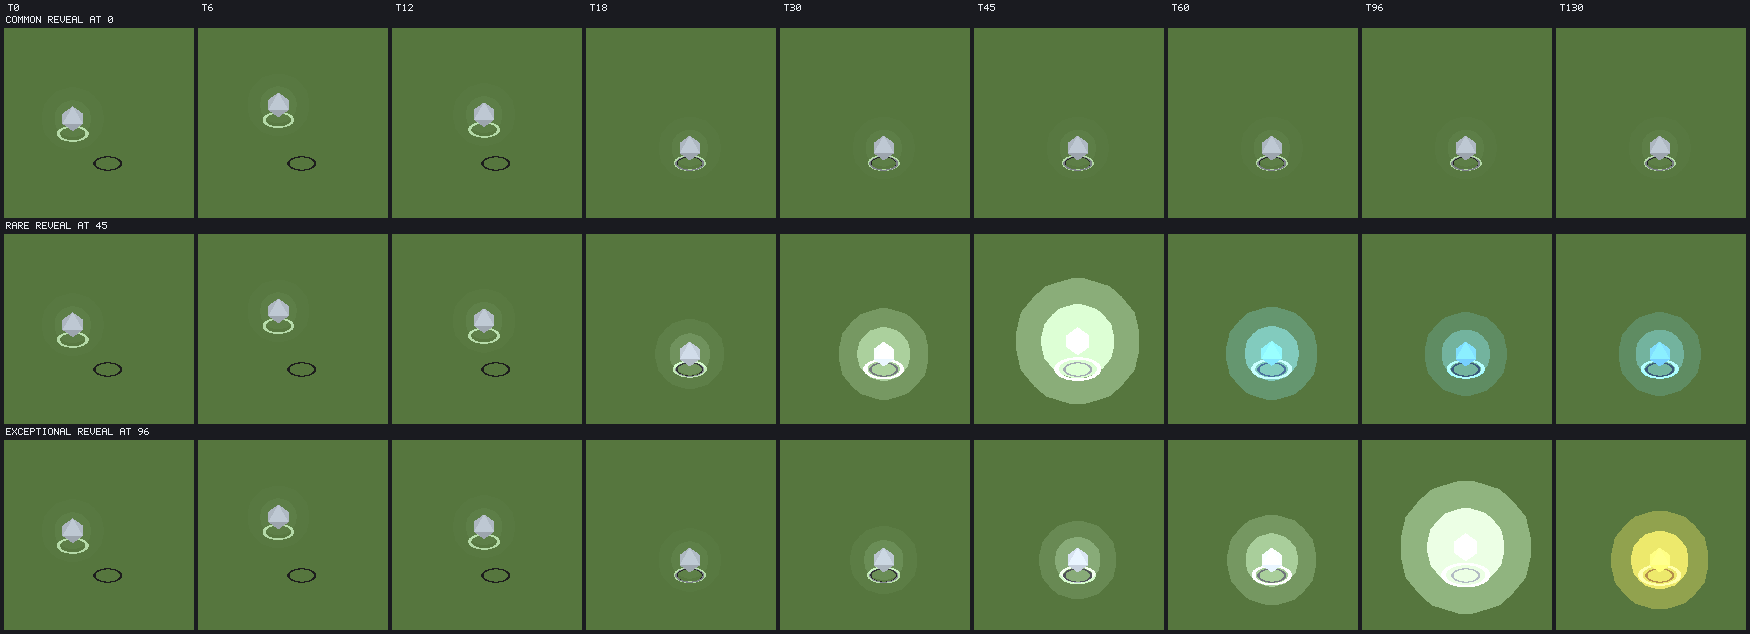
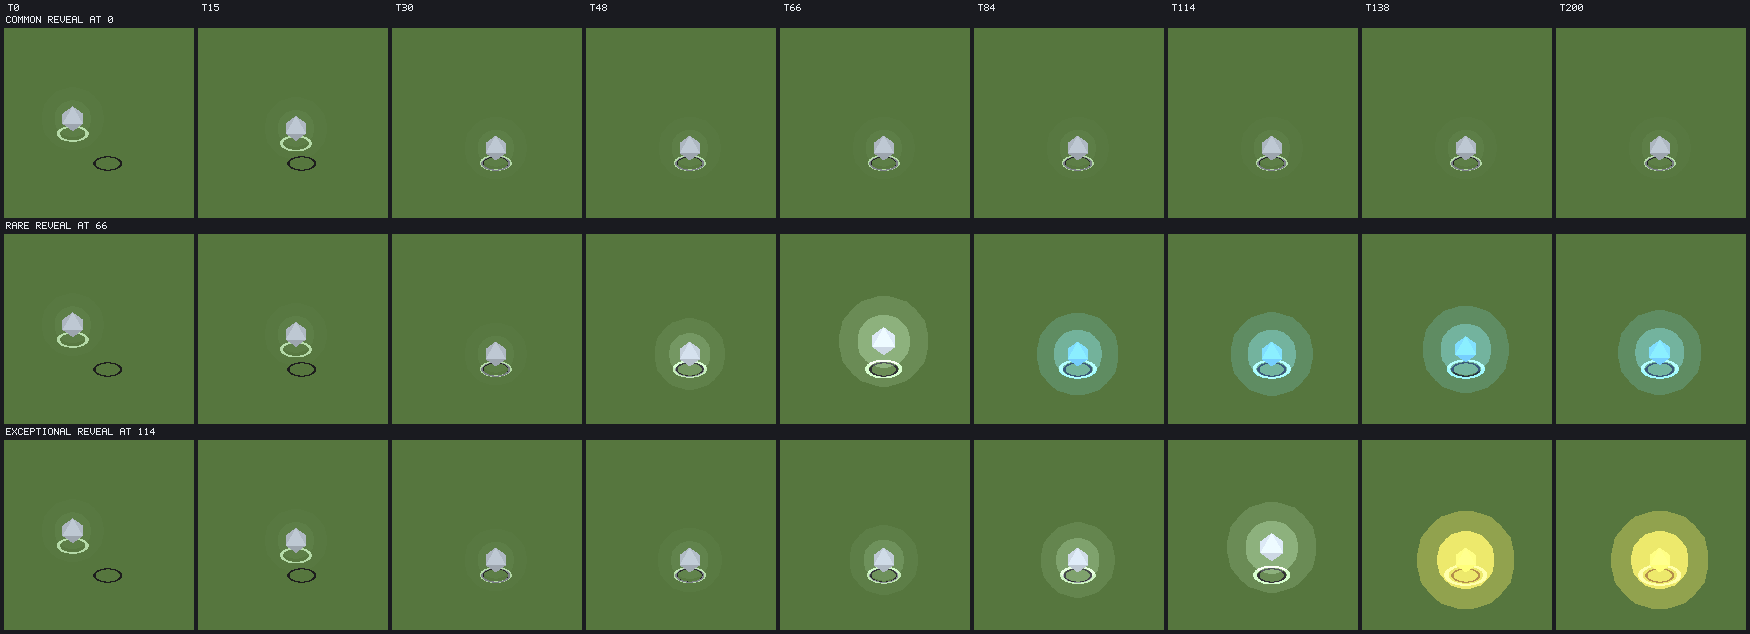
Let the drop land before anything happens to it, and stop the aura sagging
Two reports, both confirmed off the table rather than by eye.

The anticipation began 9 ticks after landing for a rare and 12 for an
exceptional -- a sixth of a second, so the aura was already swelling while
the item was still in the air. It reads as the object arriving mid-effect
rather than as an object arriving and then something happening to it. Both
tiers now hold still for 30 ticks, which is comfortably past the 18-tick
throw, and the reveal ticks move out by the same amount so the build keeps
the length it had rather than being compressed into what was left.

And the aura climbed to 0.85 through the anticipation and then halved to a
rare's resting 0.45 -- deflating at the exact moment it was supposed to be
paying off. `peakFlare` is gone from the table entirely and the shared
hidden peak drops to 0.4, at or below every revealing tier's rest, so the
curve is now monotone: quiet, climb, climb, hold. There is no flash and it
is not missed -- the reveal already has the colour arriving, the pulse's
first beat and the name becoming available, and the flash was the only one
of the four that ended lower than it started.

Both rules have tests over the whole curve rather than at sampled points,
plus the table invariant the second one depends on.

Claude-Session: https://claude.ai/code/session_01N1GVEq1b4uSdot6FbhKGCD

diff --git a/src/server/data/loot.ts b/src/server/data/loot.ts
@@ -32,8 +32,16 @@ export interface RarityRow {
    */
   readonly revealTicks: number;
   /**
-   * Ticks from landing to the anticipation cue. Never past {@link revealTicks},
-   * and equal to it only when there is no anticipation window at all.
+   * Ticks of **quiet** between the drop landing and anything about it starting
+   * to change. Never past {@link revealTicks}, and equal to it only when there
+   * is no anticipation window at all.
+   *
+   * Half a second, and the point is the stillness. It used to be a sixth of
+   * one, so the aura began swelling while the item was still in the air --
+   * which reads as the object arriving mid-effect rather than as an object
+   * arriving and *then* something happening to it. The beat lands after the
+   * throw has finished (`TOSS_TICKS` is 18) with room to spare, so the sequence
+   * a player sees is: thrown, settles, pause, and only then does it begin.
    */
   readonly anticipationTicks: number;
   /**
@@ -61,26 +69,18 @@ export interface RarityRow {
   /**
    * How bright the drop's flare sits at rest, 0..1.
    *
-   * The floor a tier never goes below once it has revealed, and the contrast
+   * Where a revealed drop's aura ends up and stays -- and, since there is no
+   * overshoot anywhere in the curve, the brightest it ever gets. The contrast
    * §3 of `docs/reward-philosophy.md` is about: a common drop is a dim object
    * in the grass forever, and nothing about it competes with the one that is
    * not.
+   *
+   * It has to sit at or above `HIDDEN_PEAK_FLARE` for every tier that has a
+   * run-up, or the aura would climb through the anticipation and then sag at
+   * the reveal -- an anticlimax exactly where the payoff is meant to be.
+   * `loot-drop.test.ts` asserts it.
    */
   readonly restFlare: number;
-  /**
-   * How bright it flashes **at the reveal**, 0..1, before settling back to
-   * {@link restFlare}.
-   *
-   * Not the top of the run-up -- that is one shared number in `loot-drop.ts`,
-   * because a tier-scaled run-up answers the question the reveal exists to ask.
-   * This is the flash at the instant the identity lands, by which point there
-   * is nothing left to withhold, so it may be as tier-scaled as it likes.
-   *
-   * Equal to {@link restFlare} for a tier with nothing to announce, which is
-   * what keeps common loot a flat dim object rather than one with a small
-   * ceremony on landing.
-   */
-  readonly peakFlare: number;
   /**
    * Whether the drop has a pulse (spec 156).
    *
@@ -95,12 +95,19 @@ export interface RarityRow {
 }
 
 /**
- * At 60Hz: 0.75s for a rare, 1.6s for an exceptional.
+ * At 60Hz: half a second of quiet, then 0.6s of build for a rare and 1.4s for
+ * an exceptional.
+ *
+ * The quiet is the same for both because it is not a tier signal -- it is the
+ * drop landing and being an object for a moment. What differs is the build
+ * after it, and only in *length*: both climb between the same two brightnesses,
+ * so a longer one is a slower one rather than a brighter one, which is a rate
+ * read over time instead of a kind read at a glance.
  *
  * Long enough to be a beat rather than a stutter, short enough that walking two
- * steps to the thing already covers most of it -- which is the point. The
- * reveal is meant to resolve at about the moment a player who reacted to the
- * cue arrives, not to make them stand and wait for it.
+ * steps to the thing already covers most of it. The reveal is meant to resolve
+ * at about the moment a player who reacted to it arrives, not to make them
+ * stand and wait.
  */
 const RARITY_ROWS: readonly RarityRow[] = [
   {
@@ -110,35 +117,32 @@ const RARITY_ROWS: readonly RarityRow[] = [
     anticipationTicks: 0,
     cues: { spawn: 'loot.spawn', anticipation: '', reveal: '' },
     restFlare: 0.12,
-    peakFlare: 0.12,
     heartbeat: false,
   },
   {
     id: 'rare',
     name: 'Rare',
-    revealTicks: 45,
-    anticipationTicks: 9,
+    revealTicks: 66,
+    anticipationTicks: 30,
     cues: {
       spawn: 'loot.spawn',
       anticipation: 'loot.anticipation',
       reveal: 'loot.reveal.rare',
     },
     restFlare: 0.45,
-    peakFlare: 0.9,
     heartbeat: true,
   },
   {
     id: 'exceptional',
     name: 'Exceptional',
-    revealTicks: 96,
-    anticipationTicks: 12,
+    revealTicks: 114,
+    anticipationTicks: 30,
     cues: {
       spawn: 'loot.spawn',
       anticipation: 'loot.anticipation',
       reveal: 'loot.reveal.exceptional',
     },
     restFlare: 0.7,
-    peakFlare: 1,
     heartbeat: true,
   },
 ];

diff --git a/src/render/iso3d/world/loot-drop.test.ts b/src/render/iso3d/world/loot-drop.test.ts
@@ -20,6 +20,7 @@ import {
   pickupLead,
   HEARTBEAT_TICKS,
   pickupOrderFor,
+  HIDDEN_PEAK_FLARE,
   REVEAL_SETTLE_TICKS,
   TIER_BLEND_TICKS,
   tierMixAt,
@@ -124,29 +125,60 @@ describe('the flare', () => {
     for (let tick = 0; tick < 300; tick++) expect(flareAt(drop, tick)).toBeCloseTo(row.restFlare, 9);
   });
 
-  it('rises through the anticipation and settles after the reveal', () => {
+  it('holds still for half a second before anything starts to change', () => {
+    for (const rarity of ['rare', 'exceptional'] as const) {
+      const drop = view(rarity);
+      const hidden = flareAt(drop, drop.spawnTick);
+      // Half a second, and the throw is over well inside it -- so the object
+      // lands, settles, and only then does something begin.
+      expect(drop.anticipationTick - drop.spawnTick).toBe(30);
+      expect(drop.anticipationTick - drop.spawnTick).toBeGreaterThan(TOSS_TICKS);
+      for (let tick = drop.spawnTick; tick <= drop.anticipationTick; tick++) {
+        expect(flareAt(drop, tick), `${rarity} @ ${tick}`).toBeCloseTo(hidden, 9);
+      }
+      // ...and then it does.
+      expect(flareAt(drop, drop.anticipationTick + 6)).toBeGreaterThan(hidden);
+    }
+  });
+
+  it('rises through the anticipation and holds after the reveal', () => {
     const drop = view('exceptional');
     const row = rarityRow('exceptional');
     const hidden = flareAt(view('common'), 0);
     // Starts where ordinary loot sits...
     expect(flareAt(drop, drop.spawnTick)).toBeCloseTo(hidden, 9);
-    // ...builds...
-    expect(flareAt(drop, drop.revealTick - 1)).toBeGreaterThan(hidden);
-    // ...flashes at the reveal, which is the first moment a tier may show...
-    expect(flareAt(drop, drop.revealTick)).toBeCloseTo(row.peakFlare, 9);
-    // ...and comes all the way back down to its own rest, rather than leaving a
-    // lit object.
+    // ...builds to the shared peak, which says nothing about the tier...
+    expect(flareAt(drop, drop.revealTick)).toBeCloseTo(HIDDEN_PEAK_FLARE, 9);
+    // ...and climbs the rest of the way to its own, where it stays.
     expect(flareAt(drop, drop.revealTick + REVEAL_SETTLE_TICKS)).toBeCloseTo(row.restFlare, 9);
     expect(flareAt(drop, drop.revealTick + 10_000)).toBeCloseTo(row.restFlare, 9);
   });
 
-  it('rises monotonically through the run-up', () => {
-    const drop = view('rare');
-    let previous = -1;
-    for (let tick = drop.anticipationTick; tick <= drop.revealTick; tick++) {
-      const flare = flareAt(drop, tick);
-      expect(flare).toBeGreaterThanOrEqual(previous);
-      previous = flare;
+  /**
+   * The rule the whole curve is built on: **it never decreases.**
+   *
+   * It used to climb to 0.85 through the anticipation and then halve to a
+   * rare's resting 0.45 -- the aura deflating at the exact moment the reveal
+   * was meant to be paying off.
+   */
+  it('never gets dimmer than it has been, at any tier, ever', () => {
+    for (const rarity of RARITY_IDS) {
+      const drop = view(rarity);
+      let previous = -Infinity;
+      for (let tick = drop.spawnTick; tick <= drop.revealTick + REVEAL_SETTLE_TICKS * 4; tick++) {
+        const flare = flareAt(drop, tick);
+        expect(flare, `${rarity} @ ${tick}`).toBeGreaterThanOrEqual(previous - 1e-9);
+        previous = flare;
+      }
+    }
+  });
+
+  /** The table has to hold up its end of that, or the curve cannot. */
+  it('authors no tier that would sag at its own reveal', () => {
+    for (const rarity of RARITY_IDS) {
+      const row = rarityRow(rarity);
+      if (row.revealTicks === 0) continue;
+      expect(row.restFlare, rarity).toBeGreaterThanOrEqual(HIDDEN_PEAK_FLARE);
     }
   });
 });

diff --git a/src/render/iso3d/world/loot-drop.ts b/src/render/iso3d/world/loot-drop.ts
@@ -88,7 +88,17 @@ export const TIER_BLEND_TICKS = 12;
  * and every kind waits for the reveal.**
  */
 const HIDDEN_REST_FLARE = rarityRow('common').restFlare;
-const HIDDEN_PEAK_FLARE = 0.85;
+/**
+ * ...and it sits at or below every revealing tier's `restFlare` on purpose, so
+ * the reveal is a step *up* from where the run-up left the aura.
+ *
+ * It used to be 0.85 against a rare's resting 0.45, so the aura climbed to
+ * nearly full through the anticipation and then halved at the moment it was
+ * supposed to be paying off. There is now no overshoot anywhere in the curve --
+ * see {@link flareAt} -- so the aura only ever gets brighter, and the reveal is
+ * where it stops rather than where it deflates.
+ */
+export const HIDDEN_PEAK_FLARE = 0.4;
 
 export interface DropPresentation {
   readonly phase: RevealPhaseValue;
@@ -147,11 +157,18 @@ function smooth(t: number): number {
 /**
  * The flare curve, as a pure function of one drop and one tick.
  *
- * Three segments and one rule holding them together: the curve never leaves
- * `[restFlare, peakFlare]`. For a common drop those two are equal, so its curve
- * is a flat line at the dimmest value in the table -- which is what makes
- * "ordinary loot is quieter than everything else at every instant" true by
- * construction rather than by two curves happening not to cross.
+ * Three segments and one rule holding them together: **it never decreases.**
+ * Half a second flat at what ordinary loot rests at, a climb to one shared
+ * hidden peak that says nothing about the tier, and at the reveal a second
+ * climb to the tier's own rest, where it stays. A drop with no run-up -- every
+ * common one -- is a flat line at the dimmest value in the table, which is what
+ * makes "ordinary loot is quieter than everything else at every instant" true
+ * by construction rather than by two curves happening not to cross.
+ *
+ * There is deliberately no flash. The reveal already has the tier's colour
+ * arriving, the first beat of the pulse and the name becoming available; a
+ * spike that then fell away was a fourth thing, and the only one of the four
+ * that ended lower than it started.
  */
 export function flareAt(drop: DropView, tick: number): number {
   const row = rarityRow(drop.rarity);
@@ -165,11 +182,11 @@ export function flareAt(drop: DropView, tick: number): number {
     return HIDDEN_REST_FLARE + (HIDDEN_PEAK_FLARE - HIDDEN_REST_FLARE) * smooth(through);
   }
 
-  // --- revealed: the tier's own flash, settling to the tier's own rest ---
+  // --- revealed: the last climb, to the tier's own rest, and then nothing ---
   //
-  // A drop that never had a run-up settles from where it already was, so a
-  // common one is flat at its rest forever rather than flashing on landing.
-  const from = drop.revealTick > drop.spawnTick ? row.peakFlare : row.restFlare;
+  // A drop that never had a run-up starts from its own rest, so a common one is
+  // a flat line forever rather than easing from somewhere it never was.
+  const from = drop.revealTick > drop.spawnTick ? HIDDEN_PEAK_FLARE : row.restFlare;
   const settled = smooth((tick - drop.revealTick) / REVEAL_SETTLE_TICKS);
   return from + (row.restFlare - from) * settled;
 }

diff --git a/scripts/preview-loot.ts b/scripts/preview-loot.ts
@@ -55,10 +55,11 @@ const LANDING = { x: 14, y: 8, z: 0 };
  * The ticks every row is sampled at.
  *
  * Absolute rather than per-tier, so the columns line up and the *difference*
- * between the tiers is what the eye lands on: the rare row resolves at column
- * 6 and the exceptional row is still withholding two columns later.
+ * between the tiers is what the eye lands on: the first three columns are the
+ * half-second of quiet and are identical in every row, the rare row resolves at
+ * t66, and the exceptional row is still withholding two columns after that.
  */
-const TICKS = [0, 6, 12, 18, 30, 45, 60, 96, 130];
+const TICKS = [0, 15, 30, 48, 66, 84, 114, 138, 200];
 
 interface Tri {
   readonly a: THREE.Vector3;

diff --git a/specs/156-a-drop-you-notice-before-you-read-it.md b/specs/156-a-drop-you-notice-before-you-read-it.md
@@ -184,6 +184,15 @@ known, so neither may name a tier — they are one name each for every tier, and
 the rarity leaking through the audio channel the instant anything is authored
 for it.
 
+The curve those three channels ride on has one shape rule: **the aura never
+decreases.** Half a second of quiet at what ordinary loot rests at — the throw
+is over inside it, so the object lands, settles, and only *then* does something
+begin — then a climb to one shared hidden peak, then at the reveal a second
+climb to the tier's own rest, where it stays. There is deliberately no flash:
+the reveal already has the colour arriving, the pulse's first beat and the name
+becoming available, and a spike that fell away afterwards was the only one of
+the four that ended lower than it started.
+
 What survives is binary: it swells, or it does not. That is the "notice", and it
 has to survive or nothing would draw the eye and the reveal would resolve
 something nobody looked at. **An amount may say "something is unusual"; only a
@@ -277,6 +286,11 @@ the delay is tunable on a running server from the admin console.
   ordinary loot rests at. The tiers separate only once each has revealed.
 - No cue that fires before the reveal names a tier, and there is exactly one
   landing sound for all three.
+- **Nothing changes for the first half-second**, at any tier, and the throw
+  finishes inside that window.
+- **The flare never decreases**, at any tier, at any tick — asserted over the
+  whole curve, plus the table invariant it depends on (`restFlare` at or above
+  the shared hidden peak for every tier with a run-up).
 - The heartbeat is two beats a cycle with the second smaller, rests for most of
   the cycle, never shrinks the object, and is phased off `spawnTick`.
 - A revealed drop names itself on hover; an unrevealed one shows nothing at all

diff --git a/CLAUDE.md b/CLAUDE.md
@@ -1078,7 +1078,11 @@ src/render/iso3d/world/ the Play tab (spec 063, spec 057's stage 3): the isometr
                  withheld and phased off the reveal. And no cue that fires
                  before the reveal names a tier, because a tier in `cues.spawn`
                  is the rarity leaking out through the audio the moment anybody
-                 authors one.
+                 authors one. The curve all three ride has one shape rule --
+                 **it never decreases** -- so half a second of quiet (the throw
+                 finishes inside it) is followed by a climb to a shared hidden
+                 peak and then a second climb to the tier's own rest, and
+                 nothing deflates at the moment the payoff is meant to land.
                  `npx tsx scripts/preview-loot.ts` is the picture, and the
                  reason it exists is that the first cut of this feature passed
                  every test it had and did almost nothing on screen -- the
